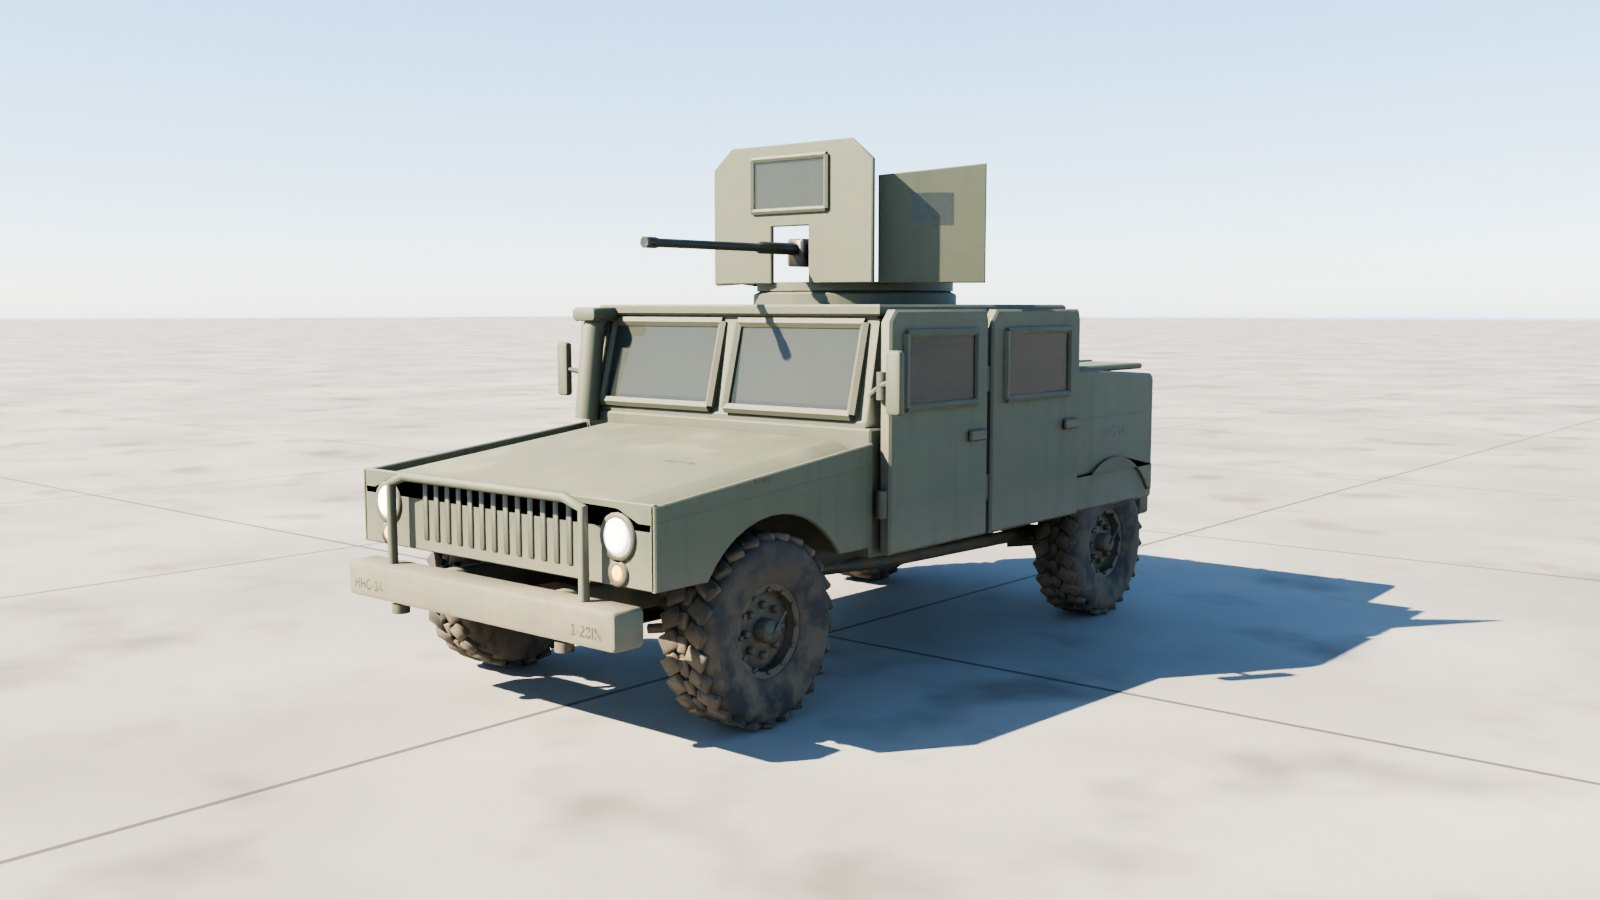
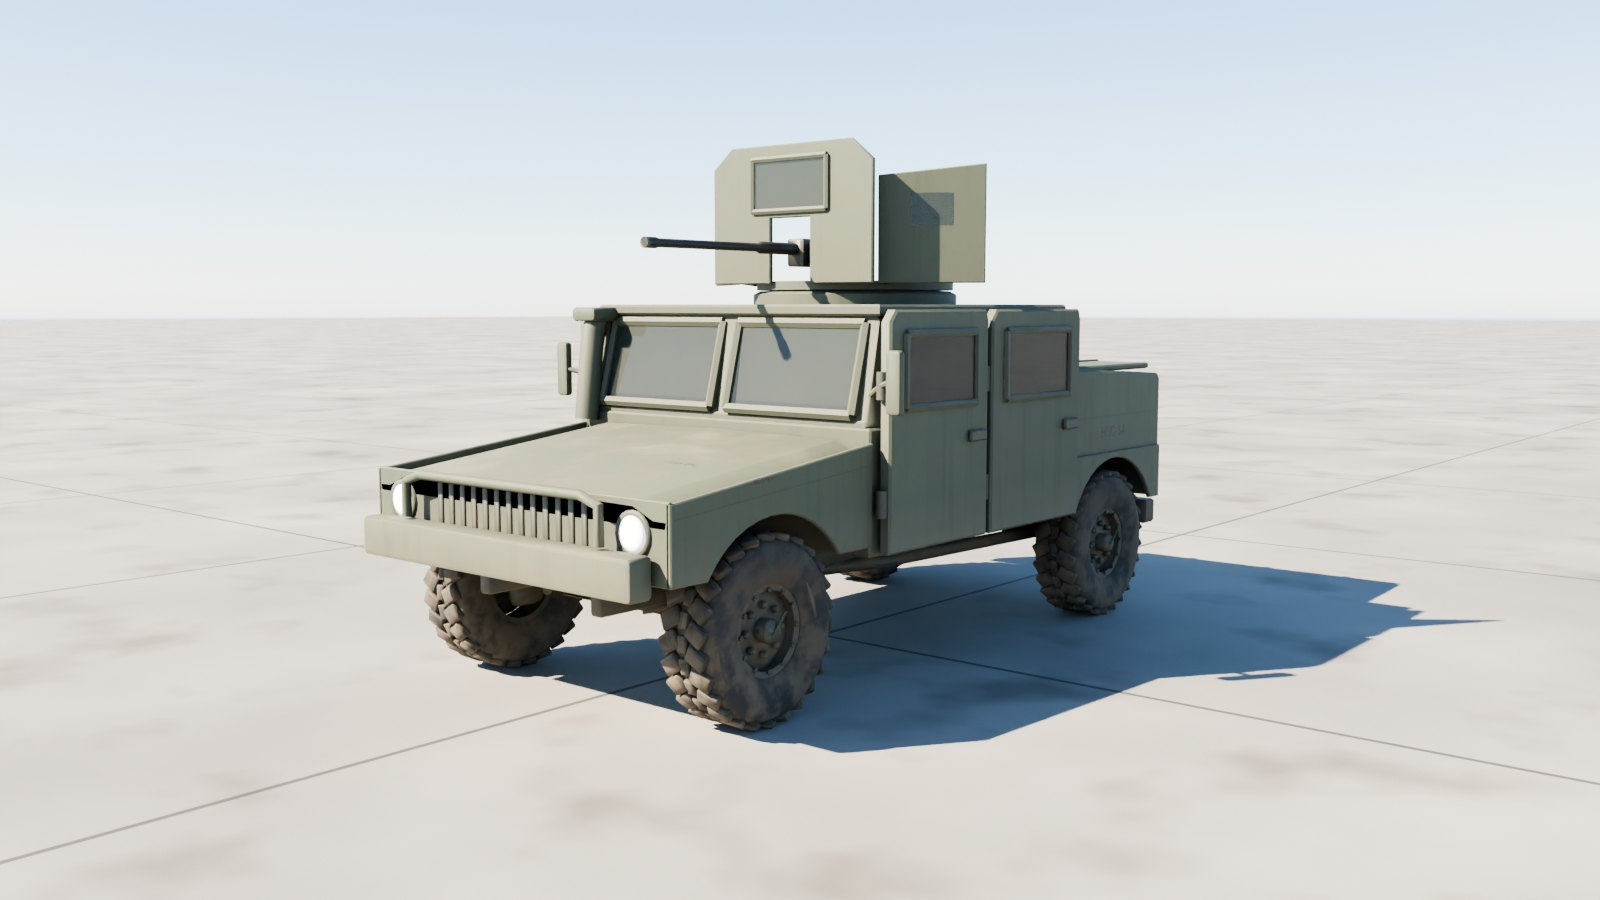
The Humvee's renders and README, with its off-road figures in the 1:1 table
Claude-Session: https://claude.ai/code/session_011yj7L8L1UpaZ79XnLpfs4s

diff --git a/m1151-hmmwv/README.md b/m1151-hmmwv/README.md
@@ -14,15 +14,15 @@ The US Army's up-armoured M1151A1 HMMWV at 1:1 scale, outside only: the wide hoo
 
 | File | What it is |
 | --- | --- |
-| `m1151_hmmwv.glb` | **The Humvee.** Textured, with the turret, gun, doors, cargo lid and every wheel and the steering its own node. 7.4 MB. |
-| `m1151_hmmwv_web.glb` | A lighter copy with half-size WebP textures, for browsers and phones. 2.8 MB. |
-| `m1151_hmmwv_viewer.html` | Opens the Humvee in your browser with a double-click: orbit round it, drive and steer it, traverse the turret, elevate the M2, open the doors and the cargo lid. 4.3 MB; not checked in, `node modelkit/finish.mjs` makes it. |
+| `m1151_hmmwv.glb` | **The Humvee.** Textured, with the turret, gun, doors, cargo lid and every wheel and the steering its own node. 7.3 MB. |
+| `m1151_hmmwv_web.glb` | A lighter copy with half-size WebP textures, for browsers and phones. 2.9 MB. |
+| `m1151_hmmwv_viewer.html` | Opens the Humvee in your browser with a double-click: orbit round it, drive and steer it, traverse the turret, elevate the M2, open the doors and the cargo lid. 4.4 MB; not checked in, `node modelkit/finish.mjs` makes it. |
 | `measurements.json` | The finished model measured against the published dimensions. |
 | `build.py`, `parts.py`, `markings.py`, `hmmwv.py` | The Blender build (it uses the shared `../modelkit`). |
 
 ## Scale: 1:1
 
-Built to AM General's published M1151A1 figures; `build.py` measures the finished geometry against them on every build:
+Built to AM General's published M1151A1 figures; `build.py` measures the finished geometry against them on every build, the off-road angles and the ground clearance included:
 
 | Dimension | Published (m) | Model (m) |
 | --- | ---: | ---: |
@@ -32,8 +32,11 @@ Built to AM General's published M1151A1 figures; `build.py` measures the finishe
 | Wheelbase | 3.302 | 3.302 |
 | Track | 1.819 | 1.819 |
 | Tyre diameter (37 in) | 0.940 | 0.943 |
+| Ground clearance (under the differentials) | 0.437 | 0.442 |
+| Approach angle | 48.8° | 48.7° |
+| Departure angle | 37.0° | 37.2° |
 
-All within 3 mm.
+All within 5 mm, the angles within 0.2°.
 
 - **Units and axes:** metres, glTF axes. +Y is up, +Z points to the front, and +X is the left.
 - **Origin:** on the ground, on the centreline, midway between the axles.
@@ -42,14 +45,16 @@ All within 3 mm.
 
 Each is its own node, pivoted where the real part turns. Its glTF extras say how it moves: `control` (wheel, steer, track, hinge, traverse, elevate, cargo), `axis`, `limits`, and `drive` in words.
 
+The gun also carries `limits_by_traverse`: its lowest and highest elevation every `traverse_step` (5) degrees of the turret's traverse, measured against the hull, so a game can lift it over the deck and whatever else stands in its way instead of letting it sink through. The viewer clamps to it.
+
 | Node | Moves |
 | --- | --- |
 | `Turret` | the gunner's turret: traverses about local Y; + turns it left, all the way round |
-| `Gun` | the M2 on its pintle: elevates about (−1, 0, 0); + raises it, −15° to +50° |
-| `Door_{Front,Rear}_{Left,Right}` | swing about `axis` on their front hinges; + opens them outward (group `Doors`) |
+| `Gun` | the M2 on its pintle: elevates about (−1, 0, 0); + raises it, −15° to +50° on its mount; the shield and the roof stop it at about +25° (its `limits_by_traverse`) |
+| `Door_{Front,Rear}_{Left,Right}` | swing about `axis` on hinges on their outer skins, at their front edges; + opens them outward (group `Doors`) |
 | `Cargo_Lid` | the cargo shell's deck lid lifts about local X (group `Cargo lid`) |
 | `Wheel_{1,2}_{Left,Right}` | spin about local X; + rolls forward (radius in the extras) |
-| `Steer_1_{Left,Right}` | steer about local Y; + turns left. The front wheels sit inside these nodes. |
+| `Steer_1_{Left,Right}` | steer about local Y; + turns left. Full lock is the inner wheel's for the published 25 ft turning radius (33°). The front wheels and their portal hubs sit inside these nodes. |
 | `Light_*` | head, blackout and tail lights; their lens materials `Light_White`, `Light_Amber` and `Light_Red` are emissive, so scale the emission to switch them |
 
 ## Look
@@ -70,8 +75,8 @@ Each set has a base colour, an occlusion-roughness-metallic map and a normal map
 
 | File | Triangles | Draw calls | Nodes | Textures | Texture memory on the GPU |
 | --- | ---: | ---: | ---: | --- | ---: |
-| `m1151_hmmwv.glb` | 45,022 | 56 | 64 | 3 at 4096², 3 at 2048² | about 320 MB |
-| `m1151_hmmwv_web.glb` | 45,022 | 56 | 64 | 6 at 1024² | about 32 MB |
+| `m1151_hmmwv.glb` | 45,654 | 60 | 68 | 3 at 4096², 3 at 2048² | about 320 MB |
+| `m1151_hmmwv_web.glb` | 45,654 | 60 | 68 | 6 at 1024² | about 32 MB |
 
 Texture memory assumes uncompressed RGBA with mipmaps; GPU texture compression (KTX2/Basis, BCn or ASTC) cuts it by four to eight times.
 
@@ -88,6 +93,6 @@ python3.11 m1151-hmmwv/build.py --preview out --lookdev    # a quick look at the
 
 ## Accuracy
 
-- **Published dimensions:** length, width over the mirrors, height to the cab roof, wheelbase, track and the tyres all match.
+- **Published dimensions:** length, width over the mirrors, height to the cab roof, wheelbase, track and the tyres all match, and so do the off-road figures: the 48.8° approach and 37° departure angles, the 17.2 in ground clearance under the differentials and the 25 ft turning radius (as the steering lock).
 - **Estimated:** the body's sections, the doors and windows, the turret's shields and the underbody.
 - **Markings:** plausible but made up.
